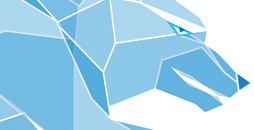
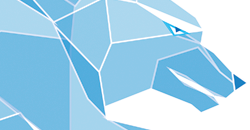
update

diff --git a/public/design.uni2019.min.css b/public/design.uni2019.min.css
@@ -1,1 +1,1 @@
-.header{height:130px}.header__logo{height:90px;width:100%;margin-top:10px!important;background-image:url(images/logo.png);background-position:center center;background-repeat:no-repeat;background-size:contain}.header__column,.header__column:last-child{-ms-flex-preferred-size:33%;flex-basis:33%;-webkit-box-orient:vertical;-webkit-box-direction:normal;-ms-flex-direction:column;flex-direction:column;-webkit-box-pack:start;-ms-flex-pack:start;justify-content:flex-start}.header__column:first-child{padding-left:0}.header__row{-ms-flex-wrap:nowrap;flex-wrap:nowrap;display:-webkit-box;display:-ms-flexbox;display:flex}.header__flex_start{-webkit-box-align:start;-ms-flex-align:start;align-items:flex-start}.header__flex_end{-webkit-box-align:end;-ms-flex-align:end;align-items:flex-end}.header__flex_center{-webkit-box-align:center;-ms-flex-align:center;align-items:center}.header__flex_wrap{-ms-flex-wrap:wrap;flex-wrap:wrap;margin-bottom:0!important}.header__flex_wrap.header__flex_start>*{margin:0 10px 10px 0}.header__flex_wrap.header__flex_end>*{margin:0 0 10px 10px}.header__flex_wrap.header__flex_center>*{margin:0 5px 10px 5px}.header__column_wolf{height:120px;width:100%;background-image:url(images/wolf.png);background-position:left center;background-repeat:no-repeat;background-size:contain}.header__column_eagle{height:120px;width:100%;background-image:url(images/eagle.png);background-position:right center;background-repeat:no-repeat;background-size:contain}.header__tumbler-container{-webkit-box-orient:vertical;-webkit-box-direction:reverse;-ms-flex-direction:column-reverse;flex-direction:column-reverse}.menu{background-color:#e5007c}.menu__item-text{font-size:14px}.menu__item-link{padding:12px 15px}.page_horizontal-menu .menu__submenu .menu__item-link{padding-left:15px}.menu__item-link:hover,.menu__item-link_hovered{background-color:#0096de}.menu .menu__submenu-container{background-color:#0096de}.menu .menu__submenu-container:after{content:'';width:100%;height:48px;left:0;bottom:-48px;position:absolute;z-index:-1;background-image:linear-gradient(189deg,#0096de 49%,transparent 50%);background-repeat:no-repeat;background-size:cover}.copyright{background-color:#0096de;font-size:14px;padding:8px 10px}@media (max-width:1168px){.header__logo{background-image:url(images/logo-mobile.png)}}
+.header{height:130px}.header__logo{height:90px;width:100%;margin-top:10px!important;background-image:url(images/logo.png);background-position:center center;background-repeat:no-repeat;background-size:contain}.header__column,.header__column:last-child{-ms-flex-preferred-size:33.333333%;flex-basis:33.333333%;-webkit-box-orient:vertical;-webkit-box-direction:normal;-ms-flex-direction:column;flex-direction:column;-webkit-box-pack:start;-ms-flex-pack:start;justify-content:flex-start}.header__column:first-child{padding-left:0}.header__row{-ms-flex-wrap:nowrap;flex-wrap:nowrap;display:-webkit-box;display:-ms-flexbox;display:flex}.header__flex_start{-webkit-box-align:start;-ms-flex-align:start;align-items:flex-start}.header__flex_end{-webkit-box-align:end;-ms-flex-align:end;align-items:flex-end}.header__flex_center{-webkit-box-align:center;-ms-flex-align:center;align-items:center}.header__flex_wrap{-ms-flex-wrap:wrap;flex-wrap:wrap;margin-bottom:0!important}.header__flex_wrap.header__flex_start>*{margin:0 10px 10px 0}.header__flex_wrap.header__flex_end>*{margin:0 0 10px 10px}.header__flex_wrap.header__flex_center>*{margin:0 5px 10px 5px}.header__column_wolf{height:120px;width:100%;background-image:url(images/wolf.png);background-position:left center;background-repeat:no-repeat;background-size:contain}.header__column_eagle{height:120px;width:100%;background-image:url(images/eagle.png);background-position:right center;background-repeat:no-repeat;background-size:contain}.header__tumbler-container{-webkit-box-orient:vertical;-webkit-box-direction:reverse;-ms-flex-direction:column-reverse;flex-direction:column-reverse}.menu{background-color:#e5007c}.menu__item-text{font-size:14px}.menu__item-link{padding:12px 15px}.page_horizontal-menu .menu__submenu .menu__item-link{padding-left:15px}.menu__item-link:hover,.menu__item-link_hovered{background-color:#0096de}.menu .menu__submenu-container{background-color:#0096de}.menu .menu__submenu-container:after{content:'';width:100%;height:48px;left:0;bottom:-48px;position:absolute;z-index:-1;background-image:linear-gradient(189deg,#0096de 49%,transparent 50%);background-repeat:no-repeat;background-size:cover}.copyright{background-color:#0096de;font-size:14px;padding:8px 10px}@media (max-width:1168px){.header__logo{background-image:url(images/logo-mobile.png)}}@media (max-width:750px){.header__column_wolf{background-position:right center;background-size:250px}.header__column_eagle{background-position:left center;background-size:250px}}

diff --git a/public/design.uni2019.css b/public/design.uni2019.css
@@ -14,8 +14,8 @@
 
 .header__column,
 .header__column:last-child {
-  -ms-flex-preferred-size: 33%;
-      flex-basis: 33%;
+  -ms-flex-preferred-size: 33.333333%;
+      flex-basis: 33.333333%;
   -webkit-box-orient: vertical;
   -webkit-box-direction: normal;
       -ms-flex-direction: column;
@@ -145,5 +145,17 @@
 @media (max-width: 1168px) {
   .header__logo {
     background-image: url("images/logo-mobile.png");
+  }
+}
+
+@media (max-width: 750px) {
+  .header__column_wolf {
+    background-position: right center;
+    background-size: 250px;
+  }
+
+  .header__column_eagle {
+    background-position: left center;
+    background-size: 250px;
   }
 }

diff --git a/design/uni2019/mobile.blocks/header/header.css b/design/uni2019/mobile.blocks/header/header.css
@@ -3,3 +3,14 @@
         background-image: url('logo-mobile.png');
     }
 }
+
+@media (max-width: 750px) {
+    .header__column_wolf {
+        background-position: right center;
+        background-size: 250px;
+    }
+    .header__column_eagle {
+        background-position: left center;
+        background-size: 250px;
+    }
+}

diff --git a/design/uni2019/common.blocks/header/header.css b/design/uni2019/common.blocks/header/header.css
@@ -13,7 +13,7 @@
 
 .header__column,
 .header__column:last-child {
-    flex-basis: 33%;
+    flex-basis: 33.333333%;
     flex-direction: column;
     justify-content: flex-start;
 }
